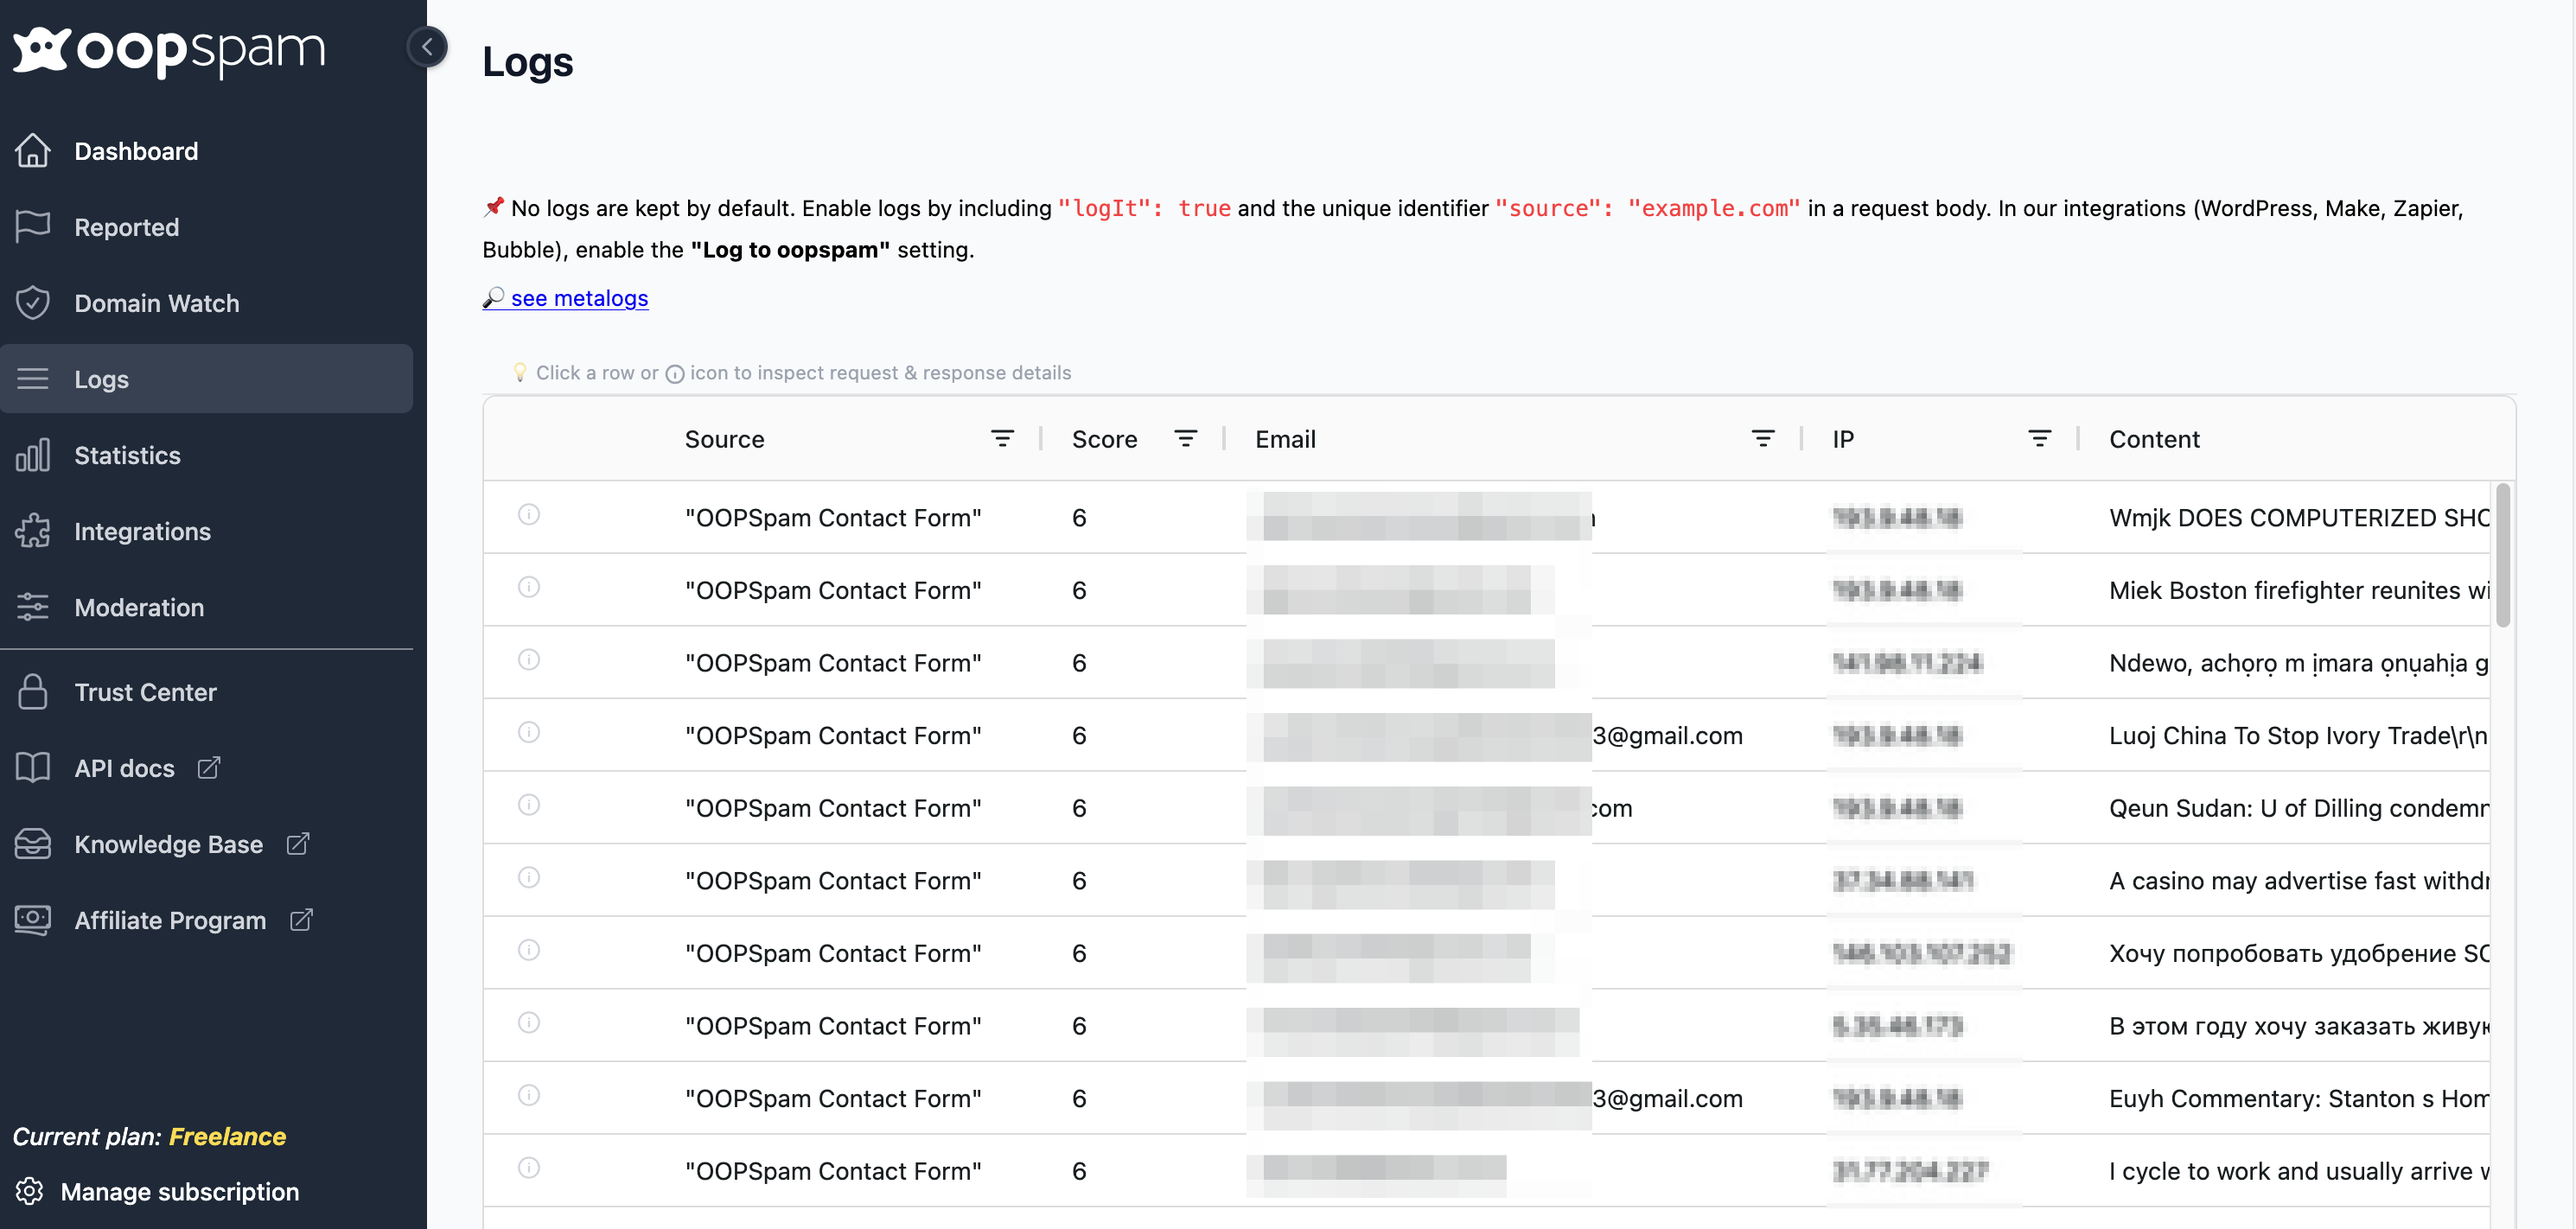
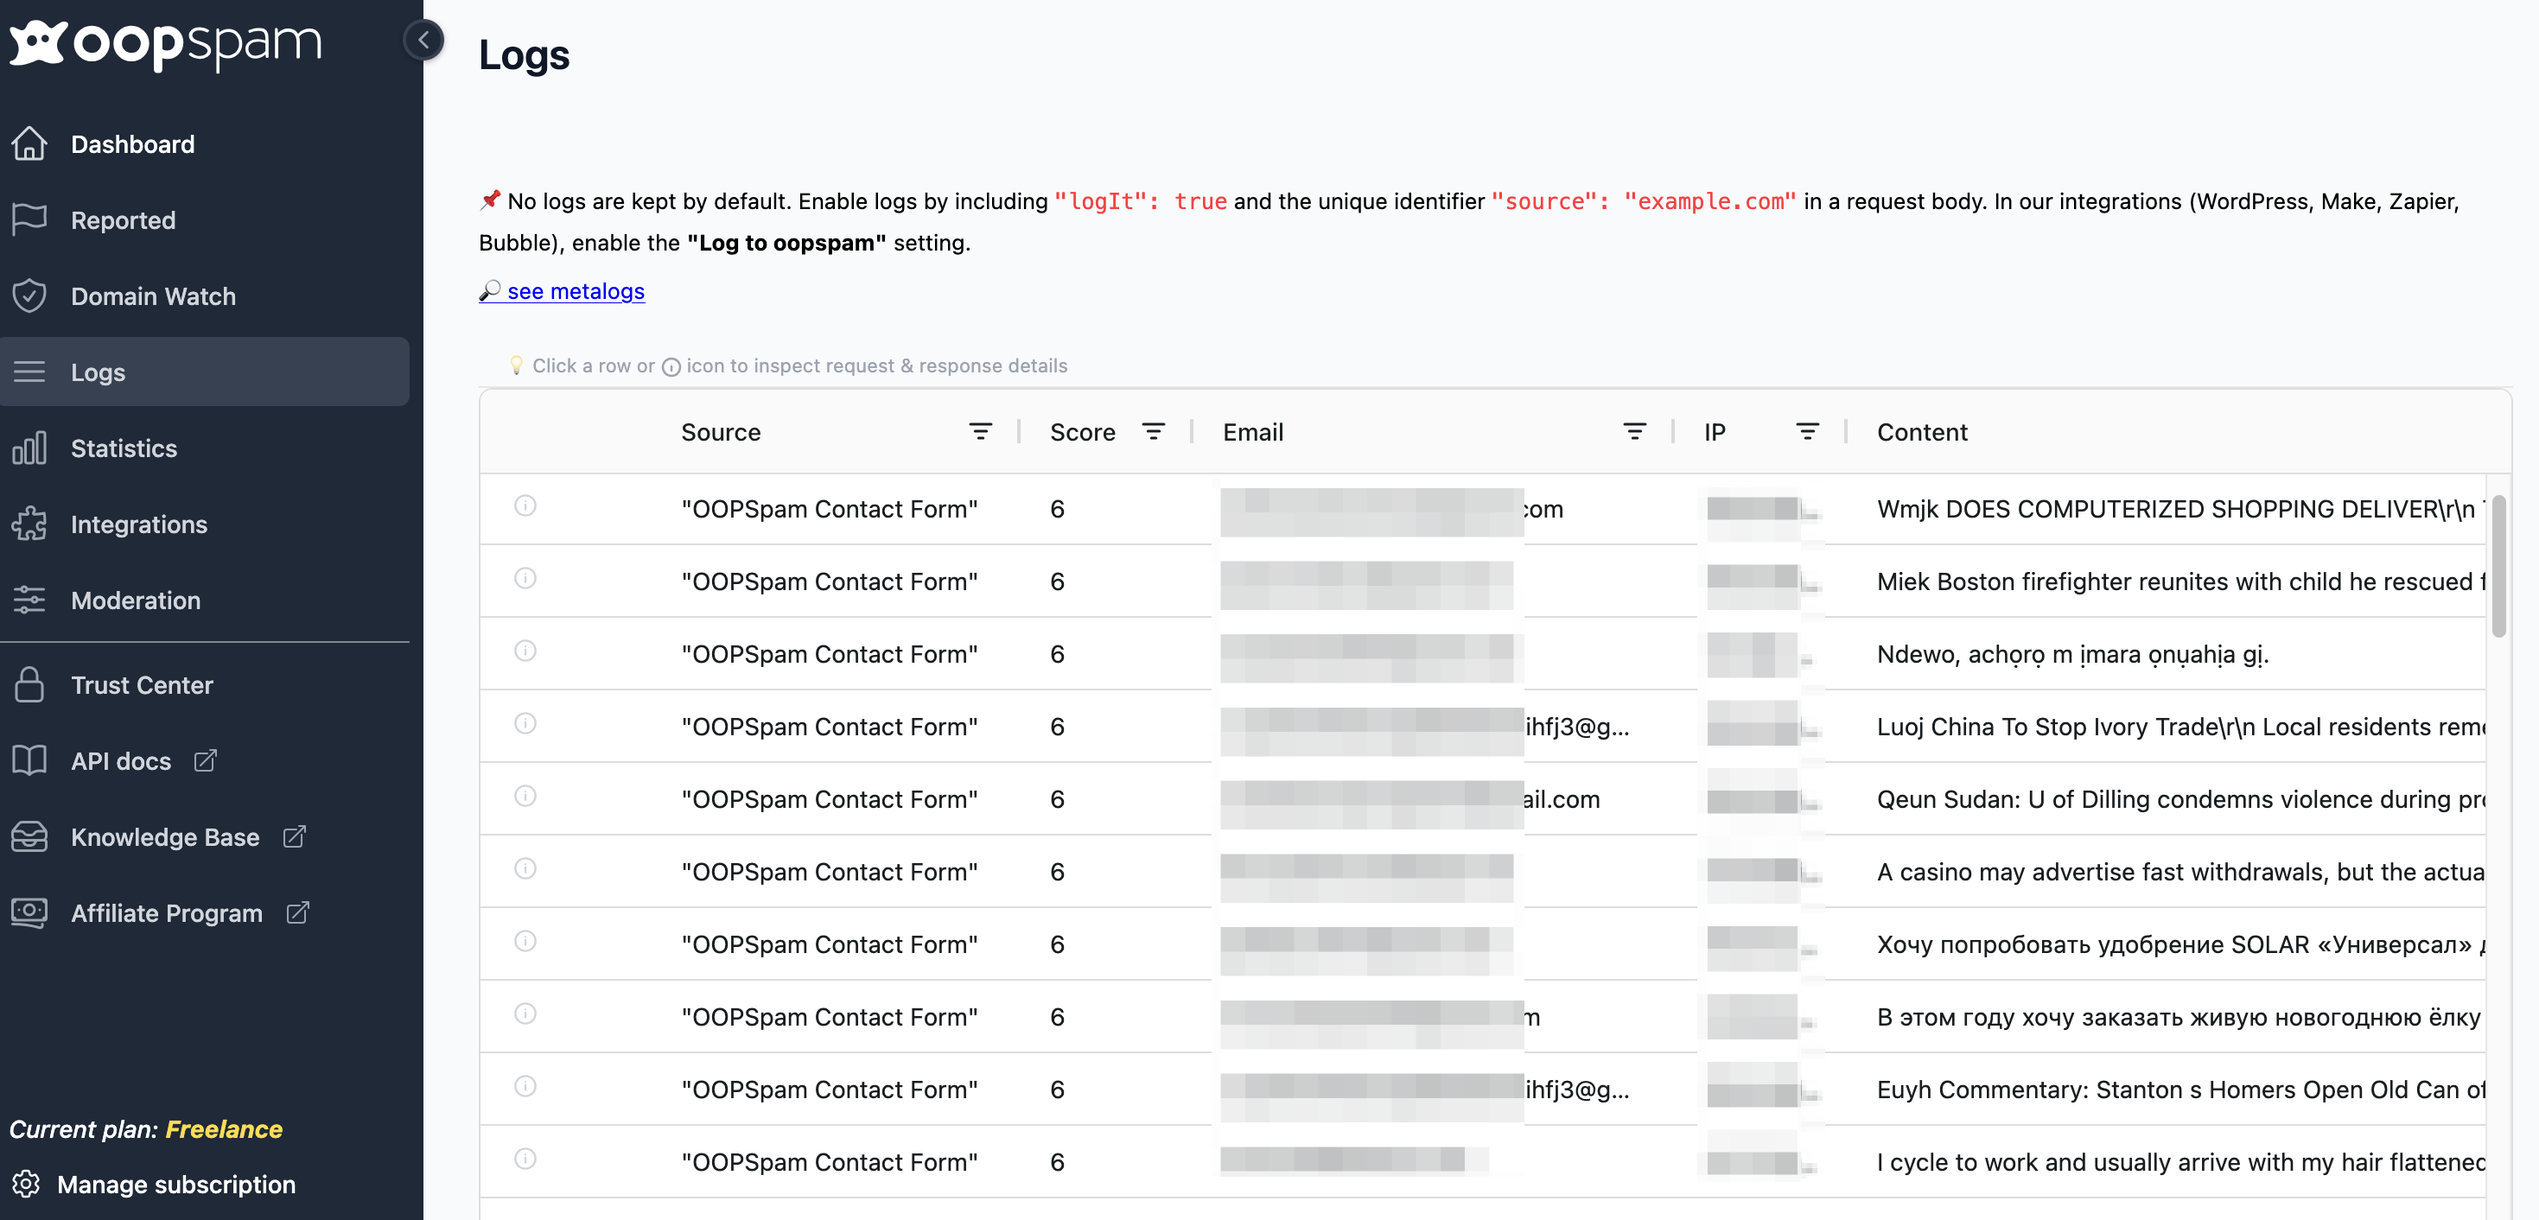
Update spam prevention guide with additional links and clarifications

diff --git a/_posts/2026-11-12-how-to-stop-spam-prospects-in-account-engagement-pardot.md b/_posts/2026-11-12-how-to-stop-spam-prospects-in-account-engagement-pardot.md
@@ -46,7 +46,7 @@ A honeypot costs nothing and adds no friction. It has two limits: the prospect i
 
 ## **3. Clean Up Spam with Automation Rules**
 
-Spam usually follows a pattern: the same message, a naming style, a country or a set of email domains. Turn that pattern into an automation rule:
+Spam usually follows a pattern: the same message, a naming style, a country or a set of email domains. Turn that pattern into an [automation rule](https://trailhead.salesforce.com/content/learn/modules/account-engagement-for-targeted-audiences/get-started-with-automation):
 
 1. Create an automation rule with criteria that match the spam, such as a country, an email domain or a phrase in a message field.
 2. Set its actions to add matching prospects to a "Spam" list and stop them from syncing to Salesforce.
@@ -83,9 +83,9 @@ There are two ways to set it up.
 
 Use this for your website forms. Instead of posting to a form handler, your form sends each submission to Zapier, and only clean submissions become prospects.
 
-1. **Trigger:** if your form builder has a Zapier app, such as Webflow, Typeform or Jotform, choose it and its new-submission event. For Webflow, that's **New Form Submission**. For a custom HTML form, use **Webhooks by Zapier** with **Catch Hook**, and post your form data to the webhook URL Zapier gives you.
+1. **Trigger:** if your form builder has a Zapier app, such as Webflow, Typeform or Jotform, choose it and its new-submission event. For Webflow, that's **New Form Submission**. For a custom HTML form, use **Webhooks by Zapier** with **Catch Hook**, and post your form data to the webhook URL Zapier gives you ([Zapier help](https://help.zapier.com/hc/en-us/articles/8496288690317-Trigger-Zaps-from-webhooks)).
 2. **Check for Spam:** add an **oopspam** step and choose **Check for Spam**. Connect your oopspam API key. Map the message to **Content**, the visitor's IP to **Sender IP** and the email to **Email**. Turn on extra options, such as blocking disposable emails, if you need them.
-3. **Filter:** add **Filter by Zapier**. Set **Only continue if** to **Spam Score**, **(Number) Less than**, **3**.
+3. **Filter:** add [Filter by Zapier](https://help.zapier.com/hc/en-us/articles/8496276332557-Add-conditions-to-Zaps-with-filters). Set **Only continue if** to **Spam Score**, **(Number) Less than**, **3**.
 4. **Create the prospect:** add a **Pardot** step with **Create Prospect**, or **Find or Create Prospect** to avoid duplicates. Map the email, name and other fields.
 
 ![Map the form fields to the oopspam Check for Spam action](/blog/assets/posts/zapier-oopspam-fields.png "Map the form fields to the oopspam Check for Spam action")
@@ -115,11 +115,11 @@ For a full walkthrough of the oopspam steps, see [Add Spam Protection to Embedde
 
 ### **Option B: Filter Spam with the oopspam API (For Developers)**
 
-This is the most complete setup. Your website form posts to your own server instead of the form handler. Your server checks the submission with oopspam and forwards only clean submissions to Account Engagement. Bots never see the form handler URL, so they can't post to it directly.
+This is the most complete setup. Your website form posts to your own server instead of the form handler. Your server checks the submission with oopspam and forwards only clean submissions to Account Engagement, using a server-side post to the form handler ([Nebula Consulting](https://nebulaconsulting.co.uk/insights/using-account-engagement-form-handlers/)). Bots never see the form handler URL, so they can't post to it directly.
 
 1. Change your form's `action` to an endpoint on your server, for example `/contact`.
 2. On the server, send the message, the visitor's IP and the email to `https://api.oopspam.com/v1/spamdetection`, with your API key in the `X-Api-Key` header.
-3. If the `Score` is 3 or more, drop the submission and show the visitor your usual thank-you page. If it's lower, post the fields to your form handler URL, or create the prospect with the Account Engagement API.
+3. If the `Score` is 3 or more, drop the submission and show the visitor your usual thank-you page. If it's lower, post the fields to your form handler URL, or create the prospect with the [Account Engagement API](https://developer.salesforce.com/docs/marketing/pardot/guide/prospect-v5.html).
 
 Here's an example in JavaScript (Node.js with Express) and PHP:
 
@@ -265,7 +265,7 @@ A few things to know:
 * **Add rules in the request.** Use `blockedCountries` or `allowedCountries`, `allowedLanguages`, `blockVPN` and `blockDC` to filter by location, language and network. The [API docs](https://www.oopspam.com/docs/) list every option.
 * **Tracking can change.** A submission forwarded from your server doesn't carry the visitor's browser cookie, so Account Engagement may not link the new prospect to their earlier page views. Test it before you switch your main forms.
 
-![Review checked submissions and their spam scores in the oopspam dashboard](/blog/assets/posts/netcore/log-dashboard.png "Review checked submissions and their spam scores in the oopspam dashboard")
+![Review checked submissions and their spam scores in the oopspam Logs](/blog/assets/posts/netcore/log-dashboard.png "Review checked submissions and their spam scores in the oopspam Logs")
 
 ## **Comparison**
 
@@ -364,7 +364,7 @@ Yes, for forms built in Account Engagement. Turn on **Enable explicit bot protec
 
 ### **Can I add reCAPTCHA to a Pardot form handler?**
 
-You can add reCAPTCHA to your own website form, but it only helps if your server verifies the token before passing the data on. Bots that post straight to the form handler URL skip it.
+You can add reCAPTCHA to your own website form, but it only helps if your server [verifies the token](https://developers.google.com/recaptcha/docs/verify) before passing the data on. Bots that post straight to the form handler URL skip it.
 
 ### **How do I delete spam prospects already in Account Engagement?**
 
